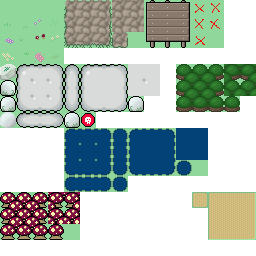
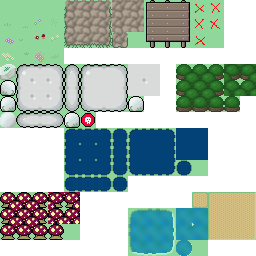
Marshy water for outdoors region

Changed region(s): [[0.5, 0.8125, 0.8125, 1.0]]

diff --git a/src/gui/editor/ps_widget_tileselect.c b/src/gui/editor/ps_widget_tileselect.c
@@ -93,6 +93,7 @@ static int ps_tileselect_tile_from_point(const struct ps_widget *widget,int x,in
 
 static int _ps_tileselect_draw(struct ps_widget *widget,int parentx,int parenty) {
   if (ps_widget_draw_background(widget,parentx,parenty)<0) return -1;
+  if (ps_video_flush_cached_drawing()<0) return -1;
   parentx+=widget->x;
   parenty+=widget->y;
 
